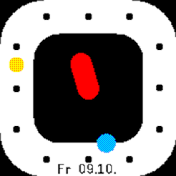
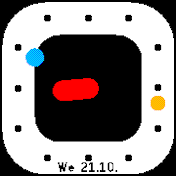
Add files via upload

diff --git a/apps/polarix/app.js b/apps/polarix/app.js
@@ -7,6 +7,7 @@ Watchface Polarix
 - Minutenkreis auch als Polygon gerendert
 - Rundungen der Quadrate grösser
 - Sek etwas orangener, Stunden schmaller
+- Sek orange
 
 */
 
@@ -39,7 +40,7 @@ Watchface Polarix
     // Sekundenanzeige
     const SEC_SIZE = 7;
     const SEC_SHAPE = { width: HOUR_SQUARE_WIDTH, radius: HOUR_SQUARE_RADIUS };
-    const SEC_COLOR = "#FFD400";
+    const SEC_COLOR = "#FF9900";
 
     
     // Factory für Berechnungsfunktinen
